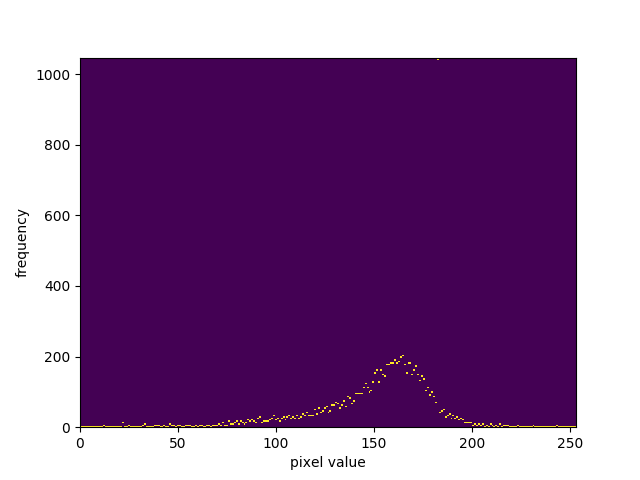
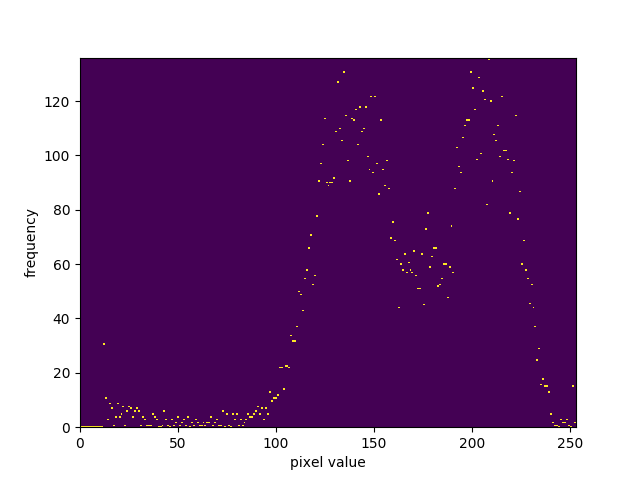
noise filter using contourArea()

diff --git a/python/gui/Gui_2DS.py b/python/gui/Gui_2DS.py
@@ -171,6 +171,7 @@ def Mapping_DS_ClosedWindowAutoDetection():
     varname_winproc, default_winproc, max_winproc = '(partial) window process level', 4, 4
     varname_bodyproc, default_bodyproc, max_bodyproc = '(partial) body process level', 1, 1
     varname_mdilate, default_mdilate, max_mdilate = '(partial) mask dilation', 32, 255
+    varname_minArea, default_minArea, max_minArea = '(partial) min area', 50, 255
     manual_width = 480
 
     WINDOW_CANNY_THRESH = (78,188)
@@ -180,7 +181,7 @@ def Mapping_DS_ClosedWindowAutoDetection():
     
     onProcStart()
     
-    path = '../test_model/2ds-preproc/토기2' # open_dir()
+    path = '../test_model/2ds-preproc/토기2' # open_dir() # 
 
     # Preproc 2D-Segment.
     dseg = [get_img(path=path+'/outer.png',width=manual_width),
@@ -220,7 +221,7 @@ def Mapping_DS_ClosedWindowAutoDetection():
         dilated = cv2.dilate(mask,kernel)
         return cv2.bitwise_and(raw,raw,mask=dilated) #???
 
-    def proc_window(raw, window_contours, mask_expand, thresh=WINDOW_CANNY_THRESH):
+    def proc_window(raw, window_contours, mask_expand, minArea, thresh=WINDOW_CANNY_THRESH):
         pallete = np.zeros(raw.shape, np.uint8)
         path = '../output/2ds/auto_window_detection/processed_windows/'
         for i in range(len(window_contours)):
@@ -232,29 +233,43 @@ def Mapping_DS_ClosedWindowAutoDetection():
             cv2.imwrite(path+'window_masked_%d.png'%i, masked_overfit)
 
             ####
+            # #PLOTTING
+            # gray_window = cv2.cvtColor(masked_overfit, cv2.COLOR_BGR2GRAY)
+            # hist = [0]*256
+            # for j in range(gray_window.size):
+            #     val = gray_window.item(j)
+            #     hist[val] += 1
 
-            gray_window = cv2.cvtColor(masked_overfit, cv2.COLOR_BGR2GRAY)
-            hist = [0]*256
-            for j in range(gray_window.size):
-                val = gray_window.item(j)
-                hist[val] += 1
-
-            plt.hist2d(range(254), hist[1:255], bins=254)
-            plt.xlabel('pixel value')
-            plt.ylabel('frequency')
-            plt.savefig(path+'window_%d_graphed.png'%i)
-            plt.close()
-
+            # plt.hist2d(range(254), hist[1:255], bins=254)
+            # plt.xlabel('pixel value')
+            # plt.ylabel('frequency')
+            # plt.savefig(path+'window_%d_graphed.png'%i)
+            # plt.close()
             ####
 
             canny = cv2.Canny(masked_overfit, thresh[0],thresh[1], apertureSize=3)
-            masked_fit = apply_mask(canny,mask,mask_expand)
+
+            ### NEW PROC
+
+            win_pallete = np.zeros(raw.shape, np.uint8)
+            conts,hiers = cv2.findContours(canny,cv2.RETR_TREE,cv2.CHAIN_APPROX_NONE)
+            for c in conts:
+                area = cv2.contourArea(c)
+                if area < minArea:
+                    continue
+                cv2.drawContours(win_pallete, [c], -1, WINDOW_COLOR)
+            ###
+
+            masked_fit = apply_mask(win_pallete,mask,mask_expand)
             cv2.imwrite(path+'window_masked_canny_%d.png'%i, masked_fit)
 
-            output = cv2.cvtColor(masked_fit, cv2.COLOR_GRAY2BGR)
+            output = masked_fit
+            # output = cv2.cvtColor(masked_fit, cv2.COLOR_GRAY2BGR)
+            
             output[np.where((output!=[0,0,0]).all(axis=2))] = WINDOW_COLOR
             pallete = cv2.add(pallete,output)
         return pallete # 3-channel
+
     
     def proc_body(raw, body_contours):
         pallete = np.zeros(raw.shape, np.uint8)
@@ -267,6 +282,7 @@ def Mapping_DS_ClosedWindowAutoDetection():
         winproc = cv2.getTrackbarPos(varname_winproc, winname)
         bodyproc = cv2.getTrackbarPos(varname_bodyproc, winname)
         mdilate = cv2.getTrackbarPos(varname_mdilate, winname)
+        minArea = cv2.getTrackbarPos(varname_minArea, winname)
 
         def process(part):
             raw = dseg[part]
@@ -276,7 +292,7 @@ def Mapping_DS_ClosedWindowAutoDetection():
             b_draw, w_draw = [draw_contours(raw,cont,color) for cont, color in [(b_cont,BODY_COLOR), (w_cont,WINDOW_COLOR)]]
             b_mask, w_mask = [draw_masks(raw, c) for c in [b_cont, w_cont]]
             b_maskexp, w_maskexp = [apply_mask(raw,m,mdilate) for m in [b_mask, w_mask]]
-            b_proc, w_proc = [proc_body(raw,b_cont), proc_window(raw,w_cont,mdilate)]
+            b_proc, w_proc = [proc_body(raw,b_cont), proc_window(raw,w_cont,mdilate,minArea)]
             return {
                 'raw'   : raw,
                 'gray'  : gray,
@@ -362,6 +378,7 @@ def Mapping_DS_ClosedWindowAutoDetection():
     cv2.createTrackbar(varname_winproc, winname, default_winproc, max_winproc, update)
     cv2.createTrackbar(varname_bodyproc, winname, default_bodyproc, max_bodyproc, update)
     cv2.createTrackbar(varname_mdilate, winname, default_mdilate, max_mdilate, update)
+    cv2.createTrackbar(varname_minArea, winname, default_minArea, max_minArea, update)
     update(None)
         
 

diff --git a/python/area.py b/python/area.py
@@ -1,0 +1,84 @@
+import cv2
+import numpy as np
+import matplotlib.pyplot as plt
+
+MAX_IMG = 3
+
+path = '../output/2ds/auto_window_detection/processed_windows/'
+
+files = [cv2.cvtColor(src, cv2.COLOR_BGR2GRAY) for src in [cv2.imread(path+'window_masked_%d.png'%i) for i in range(0,MAX_IMG+1)]]
+
+def nothing(x):
+    pass
+
+def set_imgNum(x):
+    global imgNum
+    imgNum = x
+
+def set_minArea(x):
+    global minArea
+    minArea = x
+
+def set_ksize(x):
+    global ksize, kernel
+    ksize = 2*x +1
+    kernel = cv2.getStructuringElement(cv2.MORPH_ELLIPSE,(ksize,ksize))
+
+winname = 'test'
+
+v_imgn = 'image_num'
+v_mina = 'min_area'
+v_ksize = 'k_size'
+
+
+imgNum = 0
+minArea = 30
+set_ksize(0)
+
+cv2.namedWindow(winname)
+cv2.createTrackbar(v_imgn, winname, imgNum, MAX_IMG, set_imgNum)
+cv2.createTrackbar(v_mina, winname, minArea, 1024, set_minArea)
+cv2.createTrackbar(v_ksize, winname, 0, 32, set_ksize)
+
+while True:
+    img = files[imgNum].copy()
+    frame = np.zeros(img.shape)
+
+    proc = img
+    proc = cv2.Canny(proc, 78,188)
+    proc = cv2.morphologyEx(proc, cv2.MORPH_CLOSE, kernel)
+
+    contours, hierarchy = cv2.findContours(proc, cv2.RETR_TREE, cv2.CHAIN_APPROX_NONE)
+
+    contour_data = []
+    
+    for i in range(len(contours)):
+        contour_data.append({
+            'contour' : contours[i],
+            'hierarchy' : hierarchy[0,i],
+            'area' : cv2.contourArea(contours[i])
+        })
+
+    for data in contour_data:
+        if data['area'] < minArea:
+            continue
+        cv2.drawContours(frame, [data['contour']], -1, 255)
+
+    areas = [d['area'] for d in contour_data]
+    
+    area_hist = [0] * 256
+    for a in areas:
+        area_hist[int(a)] += 1
+    
+    ###
+    # PLOTTING
+    plt.hist2d(range(256), area_hist, bins=256)
+    plt.xlabel('contour index')
+    plt.ylabel('area')
+    plt.savefig('../output/area_plot.png')
+    plt.close()
+    ###
+    print('go')
+
+    cv2.imshow(winname, frame)
+    cv2.waitKey(1)
